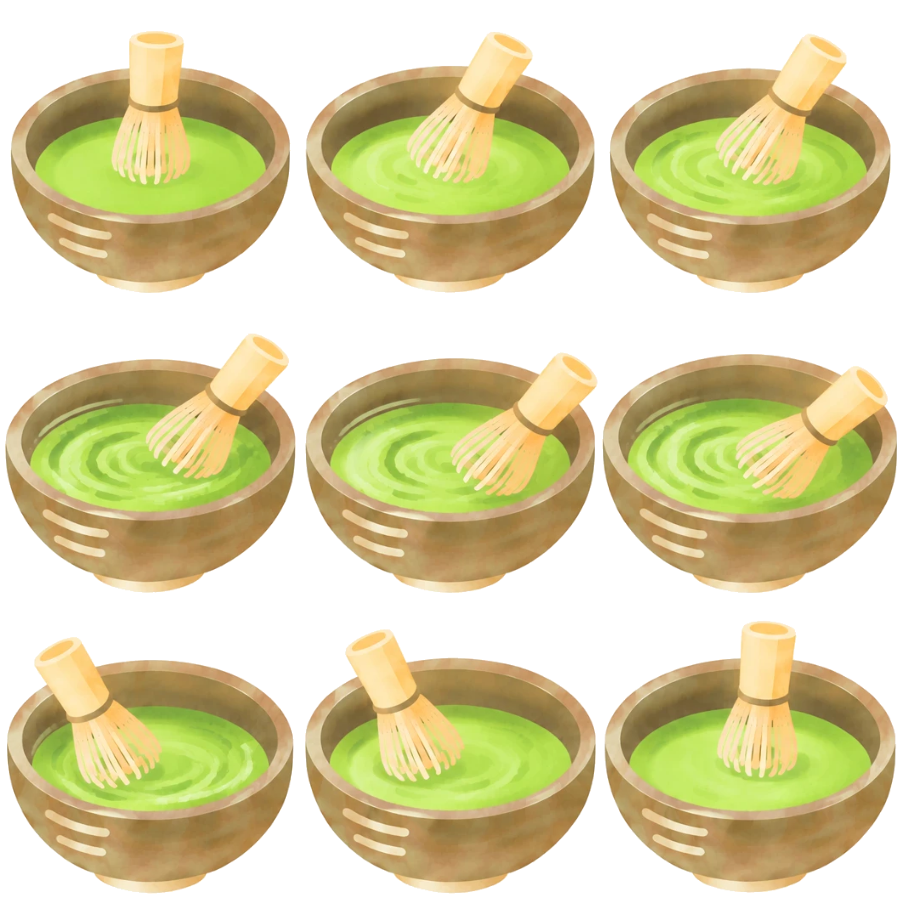
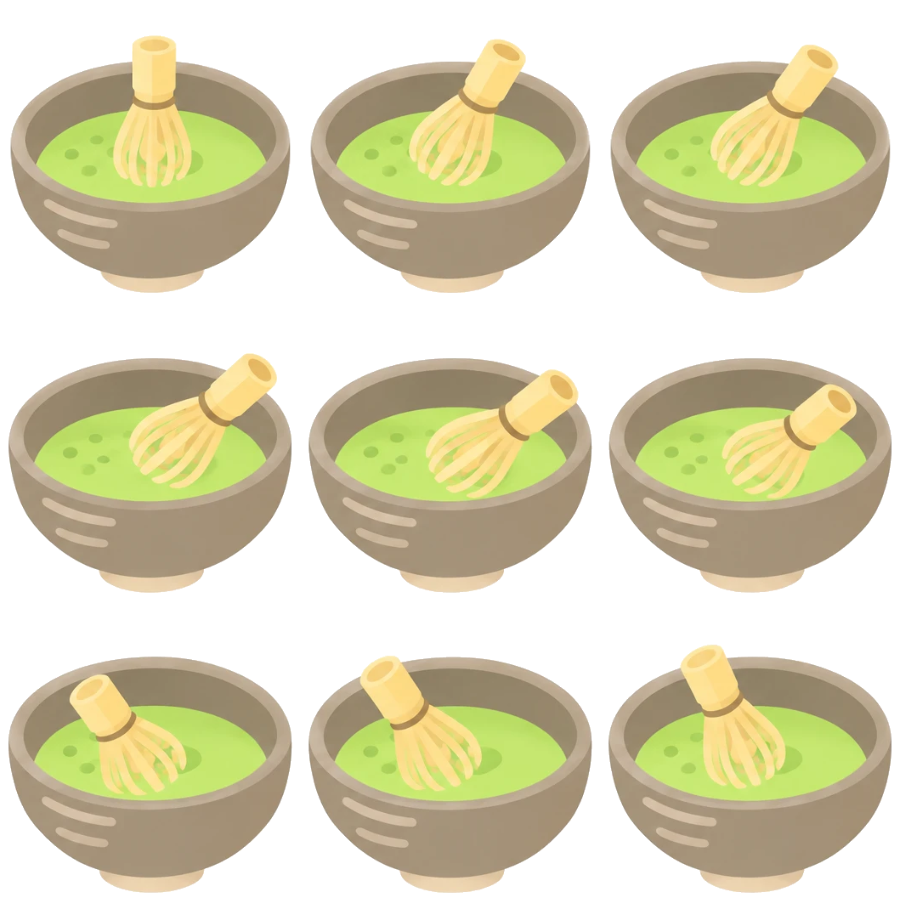
Count down the cloud tag and reveal the touches at the end
鬼ごっこの最後に5からのカウントダウンとタイムアップを出し、タッチの回数は結果で初めて見せるようにした。
抹茶は新しい9コマの絵で3周混ぜて、おやつのお茶わんの絵につなげた。

diff --git a/attara-iina/index.html b/attara-iina/index.html
@@ -189,6 +189,15 @@ canvas.wb{width:100%;height:210px;background:#fff;border:2px solid #cfc8c2;borde
 .gcard{background:#fff;border:3px solid var(--c);border-radius:16px;padding:14px 18px;text-align:center;max-width:min(92%,460px);display:flex;flex-direction:column;gap:8px;align-items:center;box-shadow:0 8px 20px rgba(40,30,20,.15)}
 .gcard h5{margin:0;font-size:19px;color:var(--c);font-weight:900;font-family:var(--hand);line-height:1.4}
 .gcard p{margin:0;font-size:13.5px;color:var(--ink);line-height:1.6}
+/* 鬼ごっこの結果：数字を大きく、カードははねて出る */
+.gcard:has(.tagres){animation:cardpop .4s ease-out}
+@keyframes cardpop{from{transform:scale(.9);opacity:0}}
+.tagres{display:flex;align-items:baseline;justify-content:center;gap:6px;line-height:1;font-family:var(--hand);font-weight:900}
+.tagnum{display:inline-block;font-size:clamp(40px,20cqh,60px);color:#e4362b;font-variant-numeric:tabular-nums}
+.tagunit{font-size:clamp(20px,9cqh,28px);color:#7a1740}
+.tagres.done .tagnum{animation:tagbump .35s ease}
+@keyframes tagbump{40%{transform:scale(1.15)}}
+.gcard p.tagrank{font-size:15px;font-weight:900;color:var(--c)}
 .gcard p b{color:var(--c);font-size:16px}
 .ghelp{font-size:12.5px;color:var(--muted);margin:0;line-height:1.6}
 .btn.hold{touch-action:none;user-select:none;-webkit-user-select:none}
@@ -1516,7 +1525,7 @@ GAMES.cloud = root => {
     if (S.style === 'waltz'){ if (b % 6 === 0) tone(deg(B - n), 0, .55, 'sine', .11); if (b % 6 === 2 || b % 6 === 4){ tone(deg(B + 2), 0, .2, 'triangle', .035); tone(deg(B + 4), 0, .2, 'triangle', .035); } }
     if (S.style === 'walk'){ if (b % 2 === 0) tone(deg(B - n + [0, 2, 4, 2][(b / 2) % 4]), 0, .24, 'triangle', .12); if (b % 4 === 2) tone(1500, 0, .03, 'square', .02); }
   }
-  let me, kids, t, tags, state = 'ready', target = null, beat = 0, beatT = 0, notes = [], pops = [], dance = 0;
+  let me, kids, t, tags, state = 'ready', target = null, beat = 0, beatT = 0, notes = [], pops = [], dance = 0, finT = 0, lastSec = 0, paper = [], counter = null;
   const keys = {};
   function reset(){ me = { x: CX, y: CY, face: 1, moving: false }; kids = COLS.map((c, k) => ({ x: CX + Math.cos(k * 1.26) * 190, y: CY + Math.sin(k * 1.26) * 90, vx: 0, vy: 0, c, safe: 0, wa: rnd(0, 6) })); t = 30; tags = 0; notes = []; pops = []; }
   const aim = e => { target = pt(e); };
@@ -1524,12 +1533,17 @@ GAMES.cloud = root => {
   cv.onpointermove = e => { if (e.buttons || e.pointerType === 'mouse') aim(e); };
   cv.onpointerleave = () => { target = null; };
   onKey((e, d) => { if (e.key.startsWith('Arrow')){ keys[e.key] = d; e.preventDefault(); if (d) target = null; } });
-  function start(){ reset(); state = 'play'; beat = 0; beatT = 0; let k; do { k = Math.floor(Math.random() * SONGS.length); } while (k === cloudLastSong); cloudLastSong = k; song = SONGS[k]; document.body.classList.add('dancing'); }
+  function confetti(n){ for (let i = 0; i < n; i++) paper.push({ x: rnd(0, W), y: rnd(-120, -6), vx: rnd(-24, 24), vy: rnd(50, 130), r: rnd(0, 6), vr: rnd(-7, 7), s: rnd(5, 10), c: ['#e4362b', '#f2b630', '#2f9a48', '#2e7fd0', '#7d55c7', '#ee7a1c', '#d4417f'][i % 7] }); }
+  function showResult(){ const rank = tags >= 20 ? '雲の上のスーパーおに！' : tags >= 10 ? '雲の上のおにごっこ名人！' : tags >= 5 ? 'いいね！ すみに追いこむと、もっとつかまえられるよ。' : '雲のはしっこに追いつめてみよう。';
+    g.over(`<div class="tagres"><span class="tagnum">0</span><span class="tagunit">回タッチ！</span></div><p class="tagrank">${rank}</p>`, 'もう一度', start);
+    counter = { el: root.querySelector('.tagnum'), t: 0, d: Math.min(1.4, .3 + tags * .05), n: 0 }; }
+  function start(){ reset(); lastSec = 0; counter = null; paper = []; state = 'play'; beat = 0; beatT = 0; let k; do { k = Math.floor(Math.random() * SONGS.length); } while (k === cloudLastSong); cloudLastSong = k; song = SONGS[k]; document.body.classList.add('dancing'); }
   loop(dt => {
     if (state === 'play'){
       t -= dt;
-      if (t <= 0){ t = 0; state = 'over'; document.body.classList.remove('dancing'); chord([0, 4, 7, 12 % 8]);
-        g.over(`<h5>${tags}回タッチ！</h5><p>${tags >= 10 ? '雲の上のおにごっこ名人！' : tags >= 5 ? 'いいね！ すみに追いこむと、もっとつかまえられるよ。' : '雲のはしっこに追いつめてみよう。'}</p>`, 'もう一度', start); }
+      if (t <= 0){ t = 0; state = 'finish'; finT = 0; document.body.classList.remove('dancing'); target = null; me.moving = false;
+        tone(2100, 0, .16, 'square', .05); tone(2100, .22, .5, 'square', .05); later(() => chord([0, 4, 7]), 160); }
+      if (state === 'play' && t <= 5 && Math.ceil(t) !== lastSec){ lastSec = Math.ceil(t); tone(880, 0, .09, 'square', .05); }
       const bpm = song.bpm + (30 - t) * song.accel, MEL = song.mel; beatT -= dt; dance += dt * bpm / 60 * Math.PI;
       if (beatT <= 0){ beatT += 30 / bpm * (song.swing ? (beat % 2 ? .67 : 1.33) : 1); const m = MEL[beat % MEL.length]; if (m !== null) tone(deg(m), 0, song.len, song.wave, song.vol);
         accompany(beat);
@@ -1554,13 +1568,24 @@ GAMES.cloud = root => {
         if (d < 34 && k.safe === 0){ tags++; k.safe = 1.5; chord([2, 4, 7], 2, .04); pops.push({ x: k.x, y: k.y - 50, a: 1 });
           const a = rnd(0, 6.28); k.x = CX + Math.cos(a) * RX * .75; k.y = CY + Math.sin(a) * RY * .75; }
       });
-      g.stat(`のこり <b>${Math.ceil(t)}</b>秒　タッチ <b>${tags}</b>回`);
+      g.stat(`のこり <b>${Math.ceil(t)}</b>秒`);  // タッチの回数は、さいごの発表まで見せない
     }
     if (state !== 'play') dance += dt * 2.2;
+    if (state === 'finish'){ finT += dt; if (finT >= 1.9){ state = 'over'; showResult(); } }
+    if (counter){ const c = counter; c.t += dt; const n = Math.min(tags, Math.floor(c.t / c.d * tags)); if (n !== c.n){ c.n = n; c.el.textContent = n; tone(440 * 2 ** (Math.min(n, 30) / 15), 0, .05, 'triangle', .07); }
+      if (c.t >= c.d){ counter = null; c.el.textContent = tags; c.el.parentElement.classList.add('done'); chord([0, 4, 7, 9]); confetti(tags >= 10 ? 26 : 0); } }
+    paper.forEach(q => { q.vy += 90 * dt; q.x += q.vx * dt + Math.sin(q.y / 28 + q.r) * .6; q.y += q.vy * dt; q.r += q.vr * dt; }); paper = paper.filter(q => q.y < H + 14);
     notes.forEach(n => { n.y -= n.v * dt; n.a -= dt * .3; }); notes = notes.filter(n => n.a > 0);
     pops.forEach(p => { p.y -= 30 * dt; p.a -= dt; }); pops = pops.filter(p => p.a > 0);
     draw();
   });
+  // のこり5秒からは、数字を大きく出す（うしろの子が見えるように、うすく）
+  function countdown(){ const n = Math.ceil(t), k = n - t; ctx.save(); ctx.translate(W / 2, H / 2 + 6); const sc = 1.3 - .3 * Math.min(1, k * 4); ctx.scale(sc, sc); ctx.globalAlpha = .75 - k * .4;
+    ctx.font = '900 112px "Zen Maru Gothic", sans-serif'; ctx.textAlign = 'center'; ctx.textBaseline = 'middle'; ctx.lineJoin = 'round'; ctx.strokeStyle = '#fff'; ctx.lineWidth = 12; ctx.strokeText(n, 0, 0); ctx.fillStyle = '#e4362b'; ctx.fillText(n, 0, 0); ctx.restore(); }
+  function timeUp(){ const k = Math.min(1, Math.max(0, finT - .16) / .22), ease = 1 - (1 - k) ** 3, sc = 1.35 - .35 * ease; if (finT < .16) return;
+    ctx.save(); ctx.fillStyle = `rgba(255,255,255,${.4 * ease})`; ctx.fillRect(0, 0, W, H);
+    ctx.translate(W / 2, H / 2); ctx.rotate(-.03); ctx.scale(sc, sc); ctx.globalAlpha = ease; ctx.font = '900 58px "Zen Maru Gothic", sans-serif'; ctx.textAlign = 'center'; ctx.textBaseline = 'middle'; ctx.lineJoin = 'round';
+    const txt = 'タイムアップ！'; ctx.strokeStyle = '#fff'; ctx.lineWidth = 12; ctx.strokeText(txt, 0, 0); ctx.fillStyle = '#e4362b'; ctx.fillText(txt, 0, 0); ctx.restore(); }
   function draw(){
     const bg = ctx.createLinearGradient(0, 0, 0, H); bg.addColorStop(0, '#bfe0fb'); bg.addColorStop(1, '#f9e3ef'); ctx.fillStyle = bg; ctx.fillRect(0, 0, W, H);
     [[52, 46, 20], [580, 40, 24], [606, 330, 18], [36, 320, 16]].forEach(([x, y, r]) => puff(ctx, x, y, r, 'rgba(255,255,255,.75)'));
@@ -1585,6 +1610,9 @@ GAMES.cloud = root => {
     });
     ctx.font = '700 15px "Zen Maru Gothic", sans-serif'; ctx.textAlign = 'center';
     pops.forEach(p => { ctx.globalAlpha = p.a; ctx.fillStyle = '#d4417f'; ctx.fillText('タッチ！', p.x, p.y); }); ctx.globalAlpha = 1; ctx.textAlign = 'left';
+    if (state === 'play' && t <= 5) countdown();
+    if (state === 'finish') timeUp();
+    paper.forEach(q => { ctx.save(); ctx.translate(q.x, q.y); ctx.rotate(q.r); ctx.fillStyle = q.c; ctx.fillRect(-q.s / 2, -q.s / 3, q.s, q.s * Math.abs(Math.cos(q.r * 1.7)) * .7 + 1); ctx.restore(); });
   }
   reset(); draw();
   g.over('<h5>雲の上でおにごっこ</h5><p>30秒で何回タッチできるかな？</p>', 'スタート', start);
@@ -2288,7 +2316,7 @@ GAMES.game = root => {
       const n = save.leaves + picks; if (n % EVERY === 0){ const T = TREATS[(n / EVERY - 1) % TREATS.length]; treats.push({ ...T }); } } });
     flies = flies.filter(f => !f.done);
     // おやつができたら、つむのをいったん止めて、みんなで「できた！」を見てから、もどる
-    if (state === 'play' && !cut && treats.length){ cut = { ...treats.shift(), t: 0 }; chord([0, 2, 4, 7]); }
+    if (state === 'play' && !cut && treats.length){ cut = { ...treats.shift(), t: 0 }; CUT_FLY = cut.kind === 'matcha' ? STIR.length * STIR_T + .6 : 2.2; CUT_EAT = CUT_FLY + .7; CUT_END = CUT_FLY + 1.4; chord([0, 2, 4, 7]); }
     if (cut){ cut.t += dt;
       if (cut.t >= CUT_EAT && !cut.ate){ cut.ate = true; fed += cut.pts; treatsToday++; eat = 1.2; hop = 1; happy = 1.4; tone(FREQ[4] * 2, 0, .2, 'sine', .1); pops.push({ x: RB.x, y: RB.y - 140, txt: `${cut.name}をたべた！ +${cut.pts}`, a: 1.6, c: '#e85b8f' }); }
       if (cut.t >= CUT_END) cut = null; }
@@ -2302,7 +2330,9 @@ GAMES.game = root => {
   function leaf(x, y, sc, col){ ctx.fillStyle = col; [[-6, 0, -.6], [6, 0, .6], [0, -8, 0]].forEach(([dx, dy, a]) => { ctx.save(); ctx.translate(x + dx * sc, y + dy * sc); ctx.rotate(a); ctx.beginPath(); ctx.ellipse(0, 0, 4 * sc, 8 * sc, 0, 0, 7); ctx.fill(); ctx.restore(); }); }
   function dango(x, y, sc){ ctx.strokeStyle = '#a07a4a'; ctx.lineWidth = 2 * sc; ctx.beginPath(); ctx.moveTo(x, y + 16 * sc); ctx.lineTo(x, y - 18 * sc); ctx.stroke();
     ['#7fb23a', '#fff7ea', '#f4a6c0'].forEach((c, k) => { ctx.fillStyle = c; ctx.beginPath(); ctx.arc(x, y - 10 * sc + k * 9 * sc, 5.5 * sc, 0, 7); ctx.fill(); ctx.strokeStyle = 'rgba(0,0,0,.15)'; ctx.lineWidth = 1; ctx.stroke(); }); }
-  const EVERY = 10, CUT_FLY = 2.2, CUT_EAT = 2.9, CUT_END = 3.6;
+  const EVERY = 10; let CUT_FLY = 2.2, CUT_EAT = 2.9, CUT_END = 3.6;
+  // 茶せんを3周まわしてから、おやつのお茶わんの絵になる
+  const STIR_T = .09, STIR = Array.from({ length: 27 }, (_, i) => i % 9);
   const TREATS = [{ kind: 'matcha', name: '抹茶', say: `新芽を${EVERY}まいつんだから、抹茶をたてたよ`, pts: 5 }, { kind: 'dango', name: '抹茶だんご', say: `新芽を${EVERY}まいつんだから、抹茶だんごをつくったよ`, pts: 5 }, { kind: 'soft', name: '抹茶ソフト', say: `新芽を${EVERY}まいつんだから、抹茶ソフトをつくったよ`, pts: 8 }];
   function matcha(x, y, sc, whisk){ ctx.save(); ctx.translate(x, y); ctx.scale(sc, sc);
     ctx.fillStyle = '#3a3330'; ctx.beginPath(); ctx.ellipse(0, 8, 13, 3, 0, 0, 7); ctx.fill();
@@ -2318,9 +2348,9 @@ GAMES.game = root => {
     ctx.fillStyle = '#a9d96a'; ctx.beginPath(); ctx.ellipse(-3, -20, 3, 2, 0, 0, 7); ctx.fill(); ctx.restore(); }
   function treat(tr, x, y, sc){
     // 抹茶をたてているあいだは、茶せんの15コマを1回通して見せる（最後は、茶せんがまっすぐ止まる）
-    if (tr.kind === 'matcha' && tr.t < CUT_FLY - .4 && TEA_MATCHA.complete && TEA_MATCHA.naturalWidth > 0){ const f = Math.min(8, Math.floor(tr.t / (CUT_FLY - .4) * 9)), d = 52 * sc; ctx.drawImage(TEA_MATCHA, f % 3 * 300, Math.floor(f / 3) * 300, 300, 300, x - d / 2, y - d * .55, d, d); return; }
+    if (tr.kind === 'matcha' && tr.t < STIR.length * STIR_T && TEA_MATCHA.complete && TEA_MATCHA.naturalWidth > 0){ const f = STIR[Math.floor(tr.t / STIR_T)], d = 52 * sc; ctx.drawImage(TEA_MATCHA, f % 3 * 300, Math.floor(f / 3) * 300, 300, 300, x - d / 2, y - d * .55, d, d); return; }
     if (TEA_TREATS.complete && TEA_TREATS.naturalWidth > 0){ const k = { matcha: 0, soft: 1, dango: 2 }[tr.kind], d = 50 * sc; ctx.drawImage(TEA_TREATS, k * 300, 0, 300, 300, x - d / 2, y - d / 2, d, d); return; }
-    if (tr.kind === 'matcha') matcha(x, y, sc, tr.t < CUT_FLY - .4); else if (tr.kind === 'soft') soft(x, y, sc); else dango(x, y, sc * 1.4); }
+    if (tr.kind === 'matcha') matcha(x, y, sc, tr.t < STIR.length * STIR_T); else if (tr.kind === 'soft') soft(x, y, sc); else dango(x, y, sc * 1.4); }
   function rabbit(x, y, n){ drawRabbit(ctx, x, y, n, { eat, hop, happy: happy > 0, sad: sadT > 0 }); }
   function draw(){
     const bx = state === 'play' ? -140 + (25 - t) / 25 * 560 : state === 'over' || state === 'jar' ? 420 : -160;
